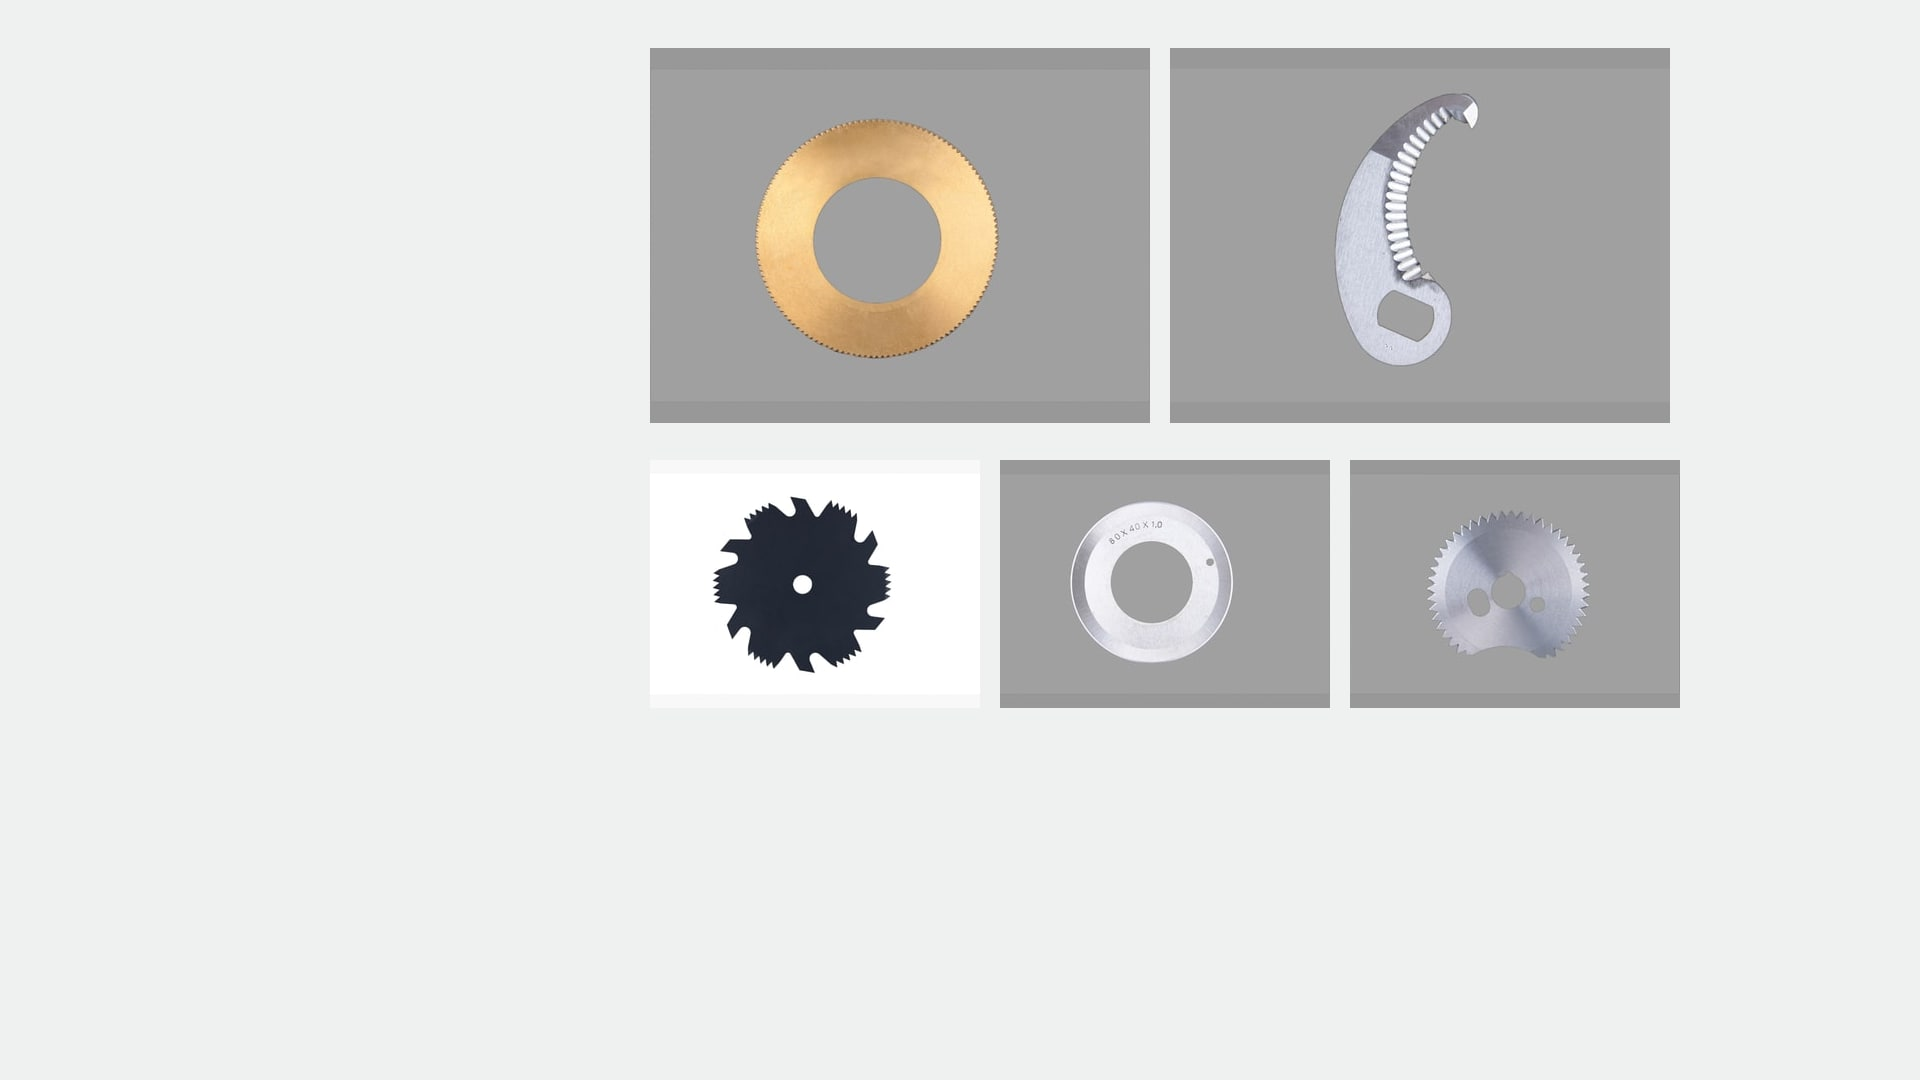
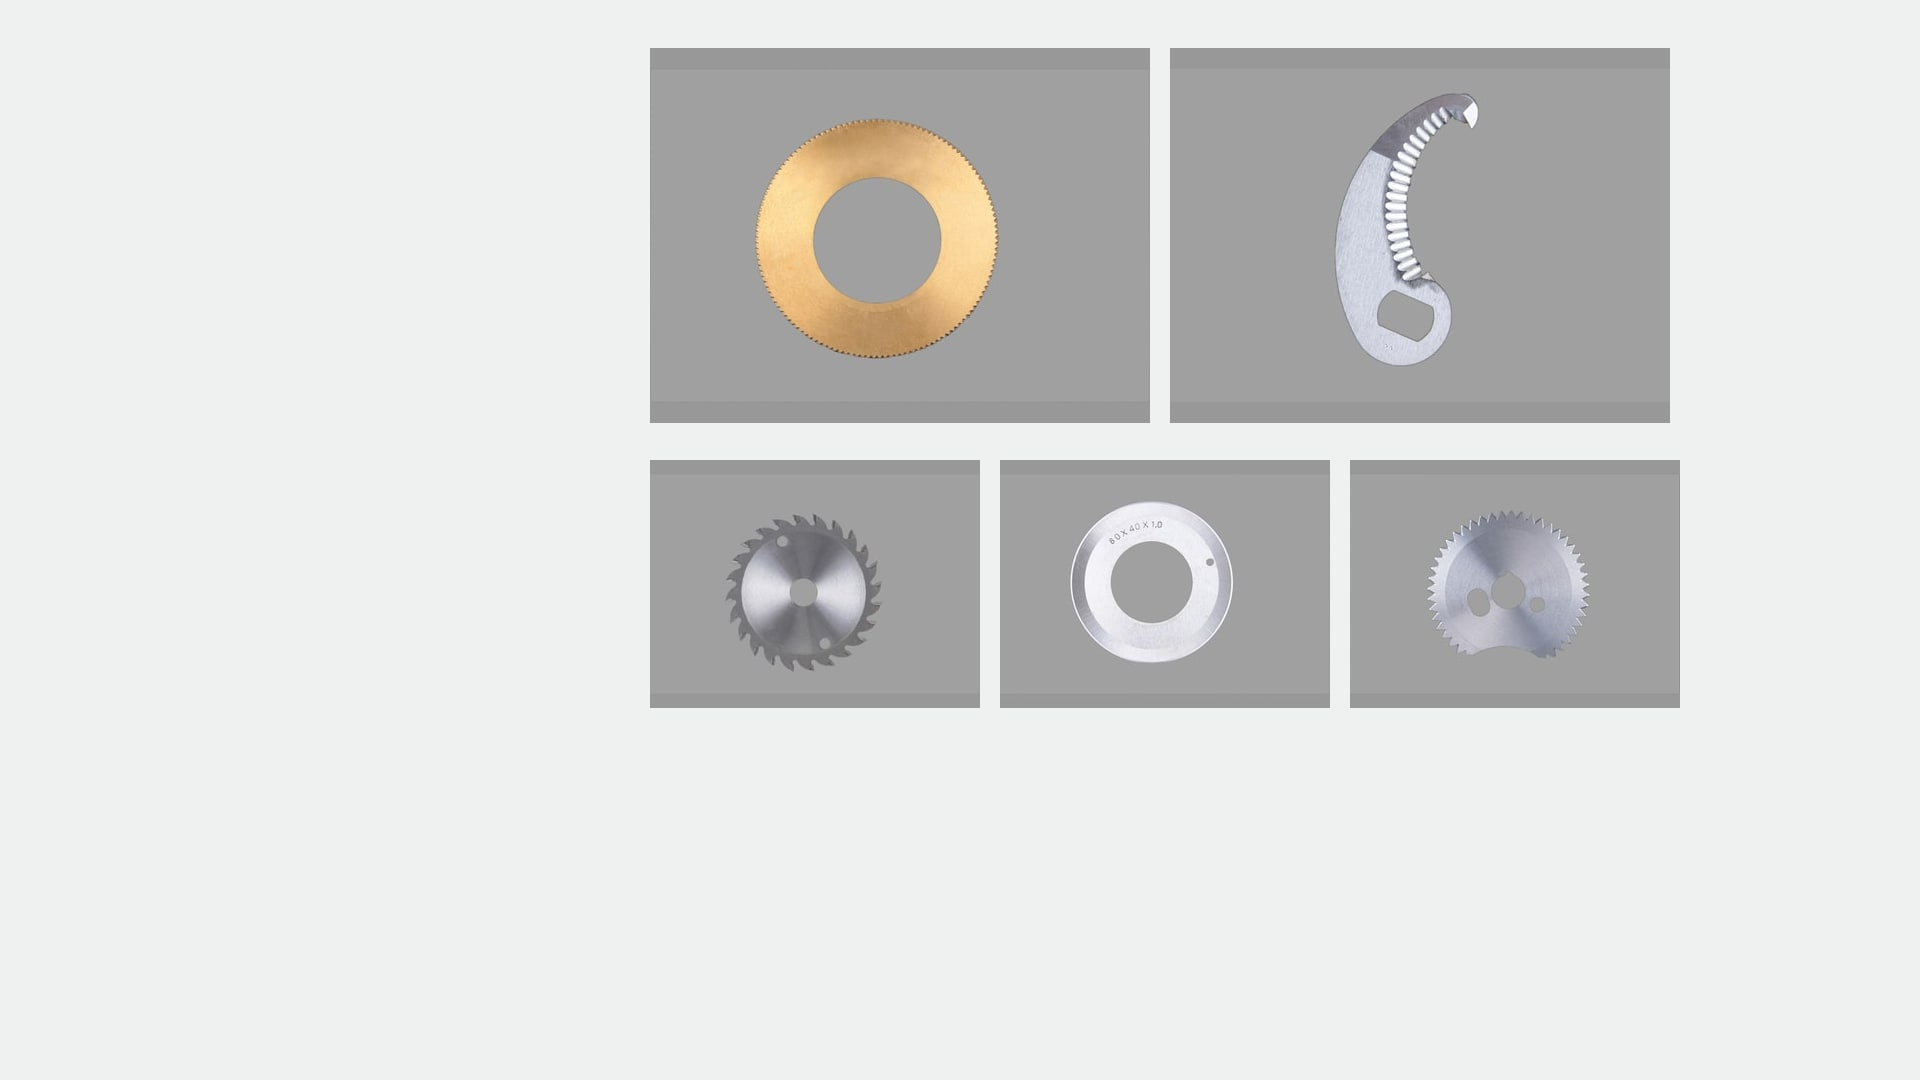
fix(products): unify woodworking cover background

Changed region(s): [[0.3125, 0.4278, 0.5312, 0.6722]]

diff --git a/scripts/check-product-library.js b/scripts/check-product-library.js
@@ -10,6 +10,13 @@ const expected = new Map([
   ["sewing-blades", 14],
   ["food-blades", 22]
 ]);
+const expectedRepresentatives = new Map([
+  ["packaging-blades", "dsc01058.jpg"],
+  ["industrial-machine-knives", "dsc00952-copy.jpg"],
+  ["woodworking-machine-blades", "dsc00676-1.jpg"],
+  ["sewing-blades", "dsc01065.jpg"],
+  ["food-blades", "dsc00604-1.jpg"]
+]);
 const legacyImages = [
   "images/product_01.png",
   "images/product_02.png",
@@ -43,6 +50,10 @@ for (const group of productPhotoLibrary.groups) {
   const expectedCount = expected.get(group.slug);
   if (!expectedCount) fail(`unexpected product photo group: ${group.slug}`);
   if (group.photoCount !== expectedCount) fail(`${group.slug}: expected ${expectedCount} photos, found ${group.photoCount}`);
+  const expectedRepresentative = expectedRepresentatives.get(group.slug);
+  if (!group.representative.endsWith(`/${expectedRepresentative}`)) {
+    fail(`${group.slug}: expected representative ${expectedRepresentative}, found ${group.representative}`);
+  }
   for (const photo of group.photos) {
     const source = path.join(root, photo.image.replace(/^\//, ""));
     if (!fs.existsSync(source)) fail(`missing processed product photograph: ${photo.image}`);

diff --git a/scripts/process-product-photo-library.js b/scripts/process-product-photo-library.js
@@ -13,7 +13,7 @@ const outputRoot = path.join(root, "images/web/product-library-20260722");
 const groups = [
   { folder: "包装类刀片", slug: "packaging-blades", representative: "dsc01058.jpg" },
   { folder: "工业机械用刀", slug: "industrial-machine-knives", representative: "dsc00952-copy.jpg" },
-  { folder: "木工机械刀片", slug: "woodworking-machine-blades", representative: "dsc01134.jpg" },
+  { folder: "木工机械刀片", slug: "woodworking-machine-blades", representative: "dsc00676-1.jpg" },
   { folder: "缝纫类刀片", slug: "sewing-blades", representative: "dsc01065.jpg" },
   { folder: "食品刀片", slug: "food-blades", representative: "dsc00604-1.jpg" }
 ];

diff --git a/src/_data/site.js b/src/_data/site.js
@@ -11,7 +11,7 @@ module.exports = {
   addressZh: "福建省漳州市长泰区古农农场顺兴路6号",
   addressEn: "No. 6 Shunxing Road, Gutong Farm, Changtai District, Zhangzhou, Fujian, China",
   formEndpoint: "/api/rfq",
-  assetVersion: "20260722-2i",
+  assetVersion: "20260722-2j",
   icp: "闽ICP备2026007966号-1",
   icpUrl: "https://beian.miit.gov.cn/"
 };

diff --git a/src/_data/productPhotoLibrary.js b/src/_data/productPhotoLibrary.js
@@ -21,7 +21,7 @@ const definitions = [
     slug: "woodworking-machine-blades",
     folderName: "木工机械刀片",
     name: { zh: "木工机械刀片", en: "Woodworking Machine Blades" },
-    representative: "dsc01134.jpg"
+    representative: "dsc00676-1.jpg"
   },
   {
     slug: "sewing-blades",
